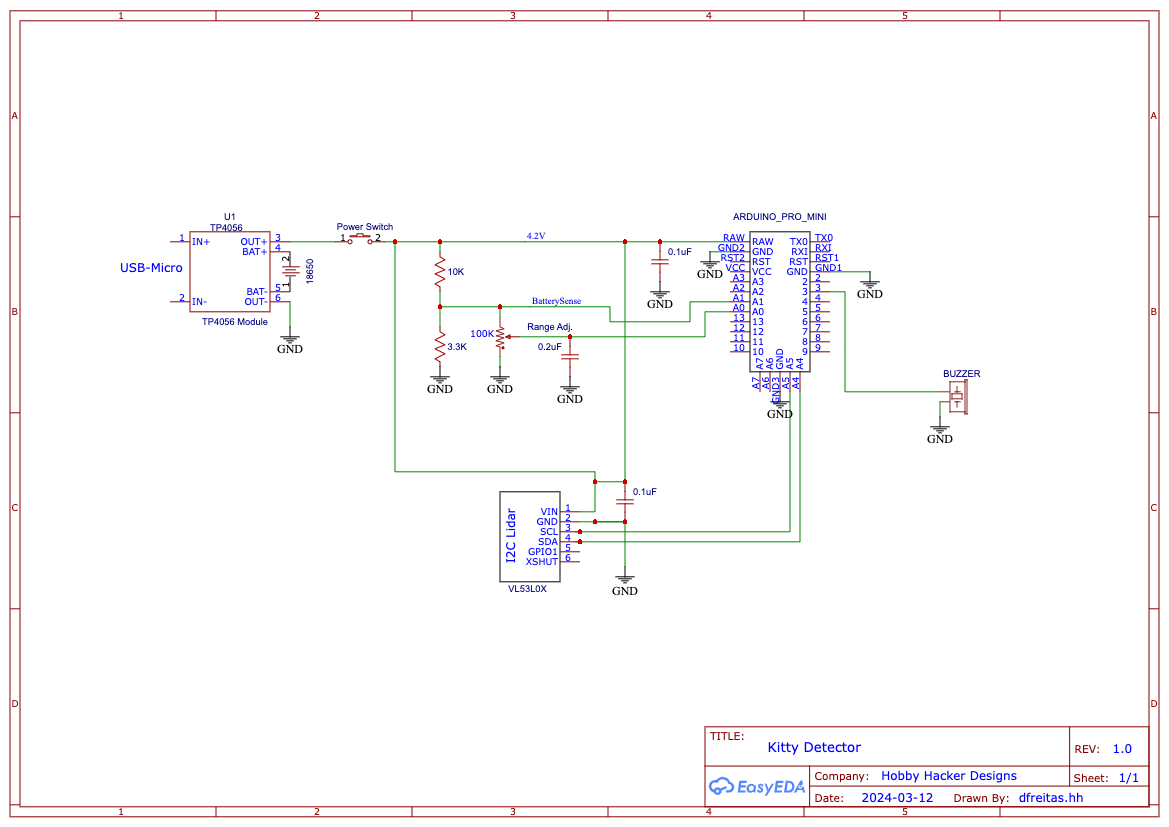
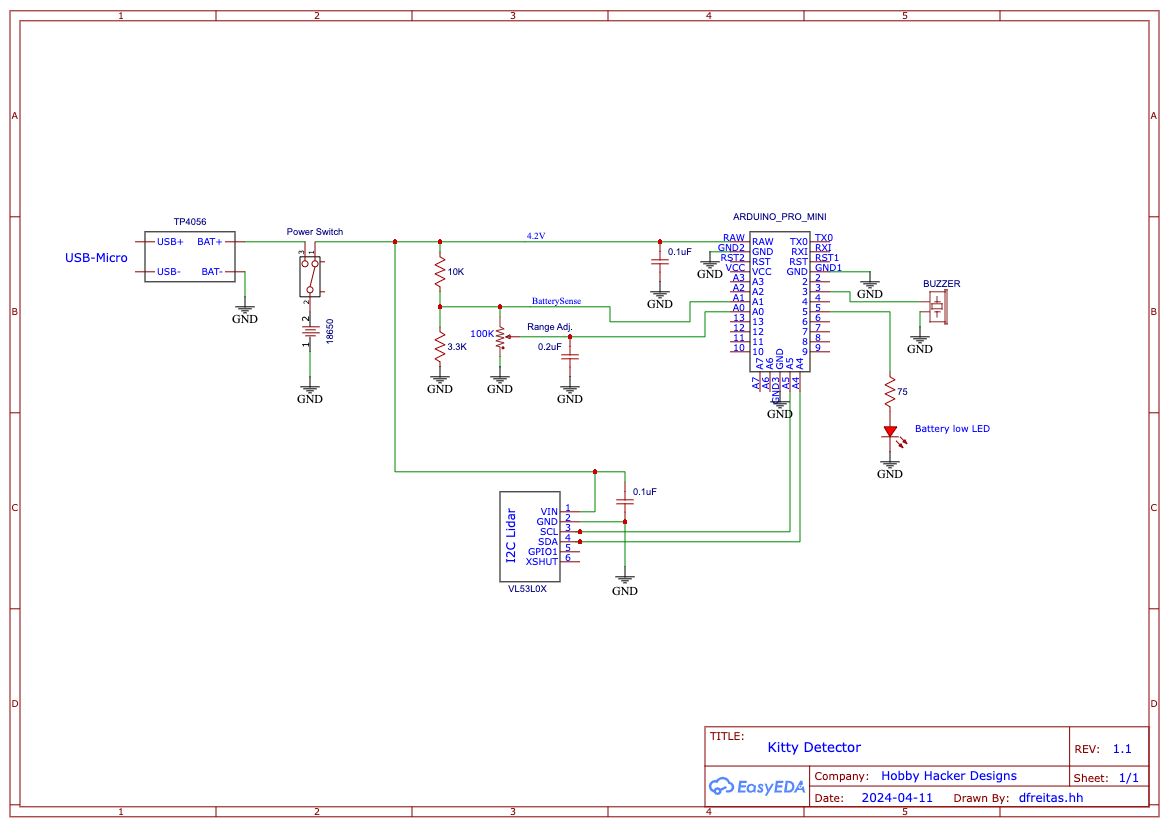
added LED for battery low indicator.  Added SPDT power switch

diff --git a/src/main.cpp b/src/main.cpp
@@ -30,11 +30,14 @@ int alarmDist;
 
 // I/O Pin Definitions
 const uint8_t BUZZER = 3;     // Buzzer + pin
+const uint8_t LED = 5;        // Low batter LED
 
 // Timer vars
 const int WARNING_BUZZ_DURATION = 2000;   // How long (ms) to buzz the buzzer to warn of proximity violation
 const int CHIRP_DURATION= 100;            // How long to chirp when the battery is low (in ms)
 const long CHIRP_INTERVAL= 60000;         // How long between chirps (in ms)
+const int LED_DURATION= 500;              // How long to flash LED (in ms)
+const int LED_INTERVAL= 5000;             // How long between flashes (in ms)
 
 // ADC reference adjust.  Set as a percent by measuring battery and comparing to calculated value
 const float ADC_REF_ADJUST = 1.08;
@@ -57,11 +60,13 @@ void setup() {
   // Pot to set the alarm range.  Sets the alarmDist.  
   pinMode(A0, INPUT);  //Range potentiometer
   pinMode(BUZZER,OUTPUT);
+  pinMode(LED,OUTPUT);
 
   // Use 1.1v bandgap as reference for ADC's
   analogReference(INTERNAL);
   
   digitalWrite(BUZZER,0);
+  digitalWrite(LED,0);
 
   if (!laserRanger.begin()) {
     Serial.println(F("Failed to boot laserRanger VL53L0X"));
@@ -91,10 +96,10 @@ void loop() {
   // If the battery is drained to the limit, go into chirping loop
   if(batteryVoltage <= BATTERY_LOW_LIMIT) {
     while(1) {
-      digitalWrite(BUZZER,1);
-      delay(CHIRP_DURATION);
-      digitalWrite(BUZZER,0);
-      delay(CHIRP_INTERVAL);
+      digitalWrite(LED,1);
+      delay(LED_DURATION);
+      digitalWrite(LED,0);
+      delay(LED_INTERVAL);
     }
   }
 
